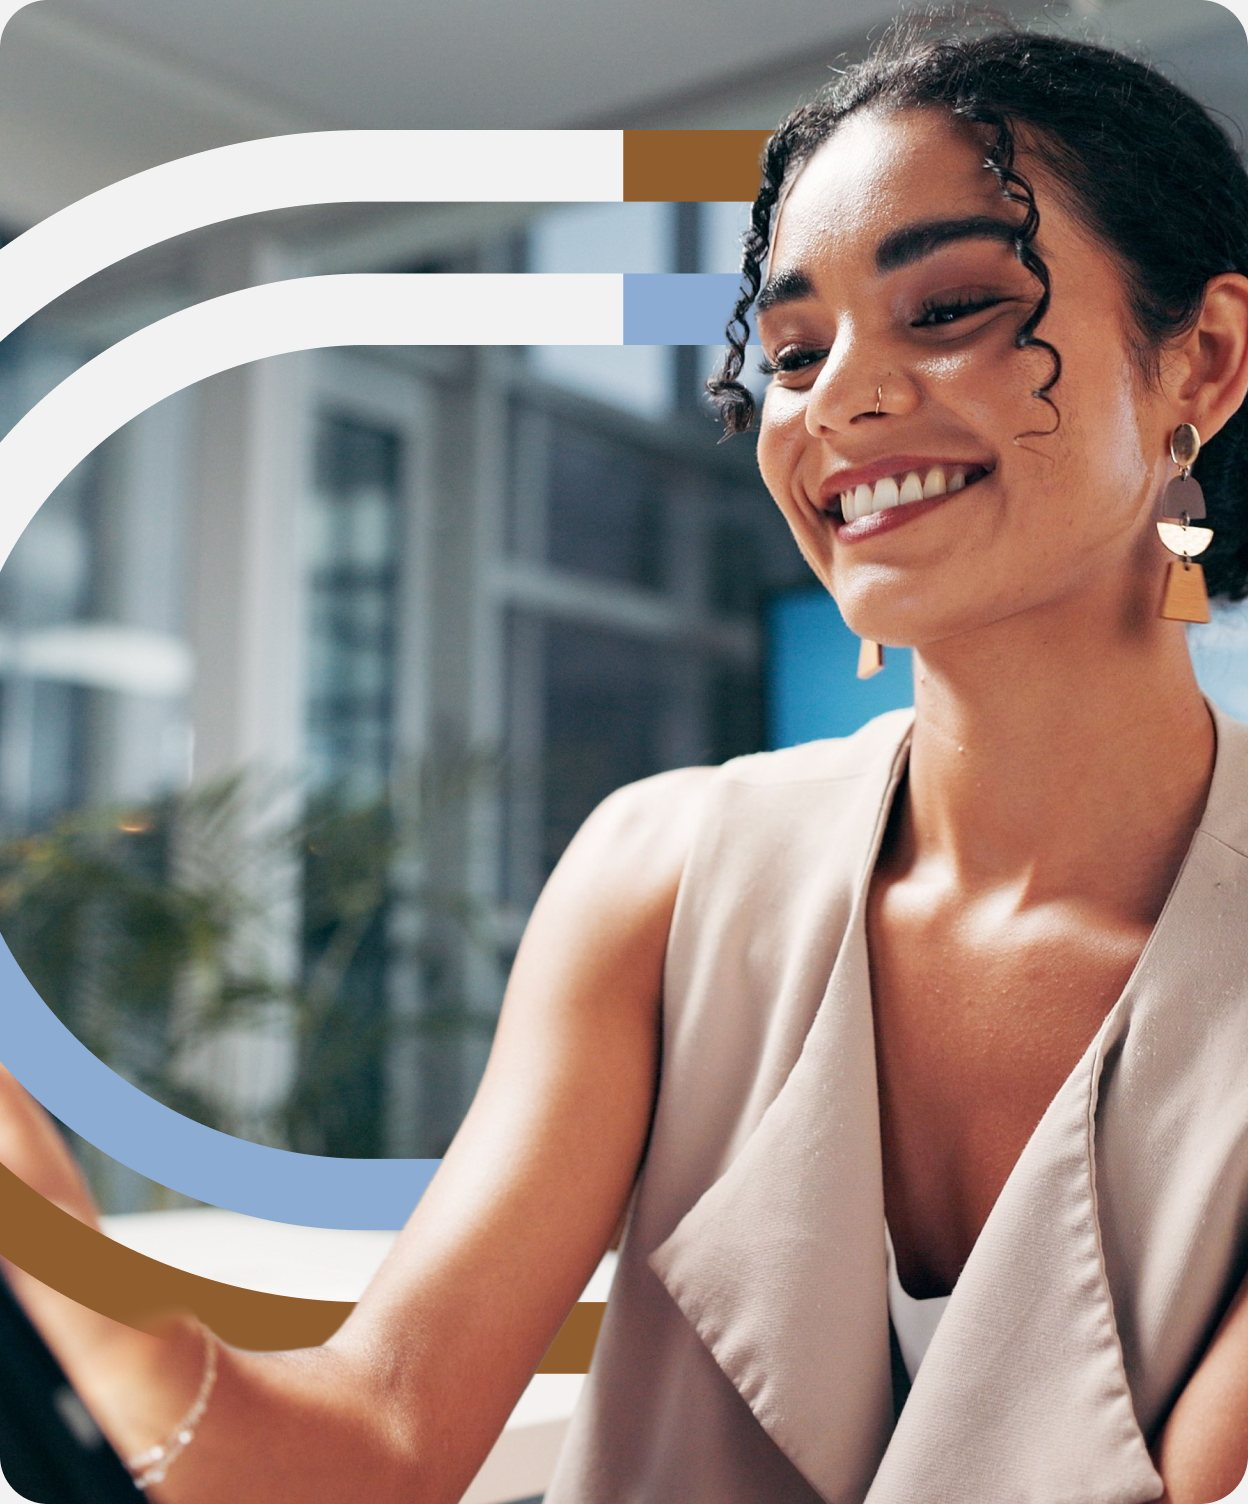
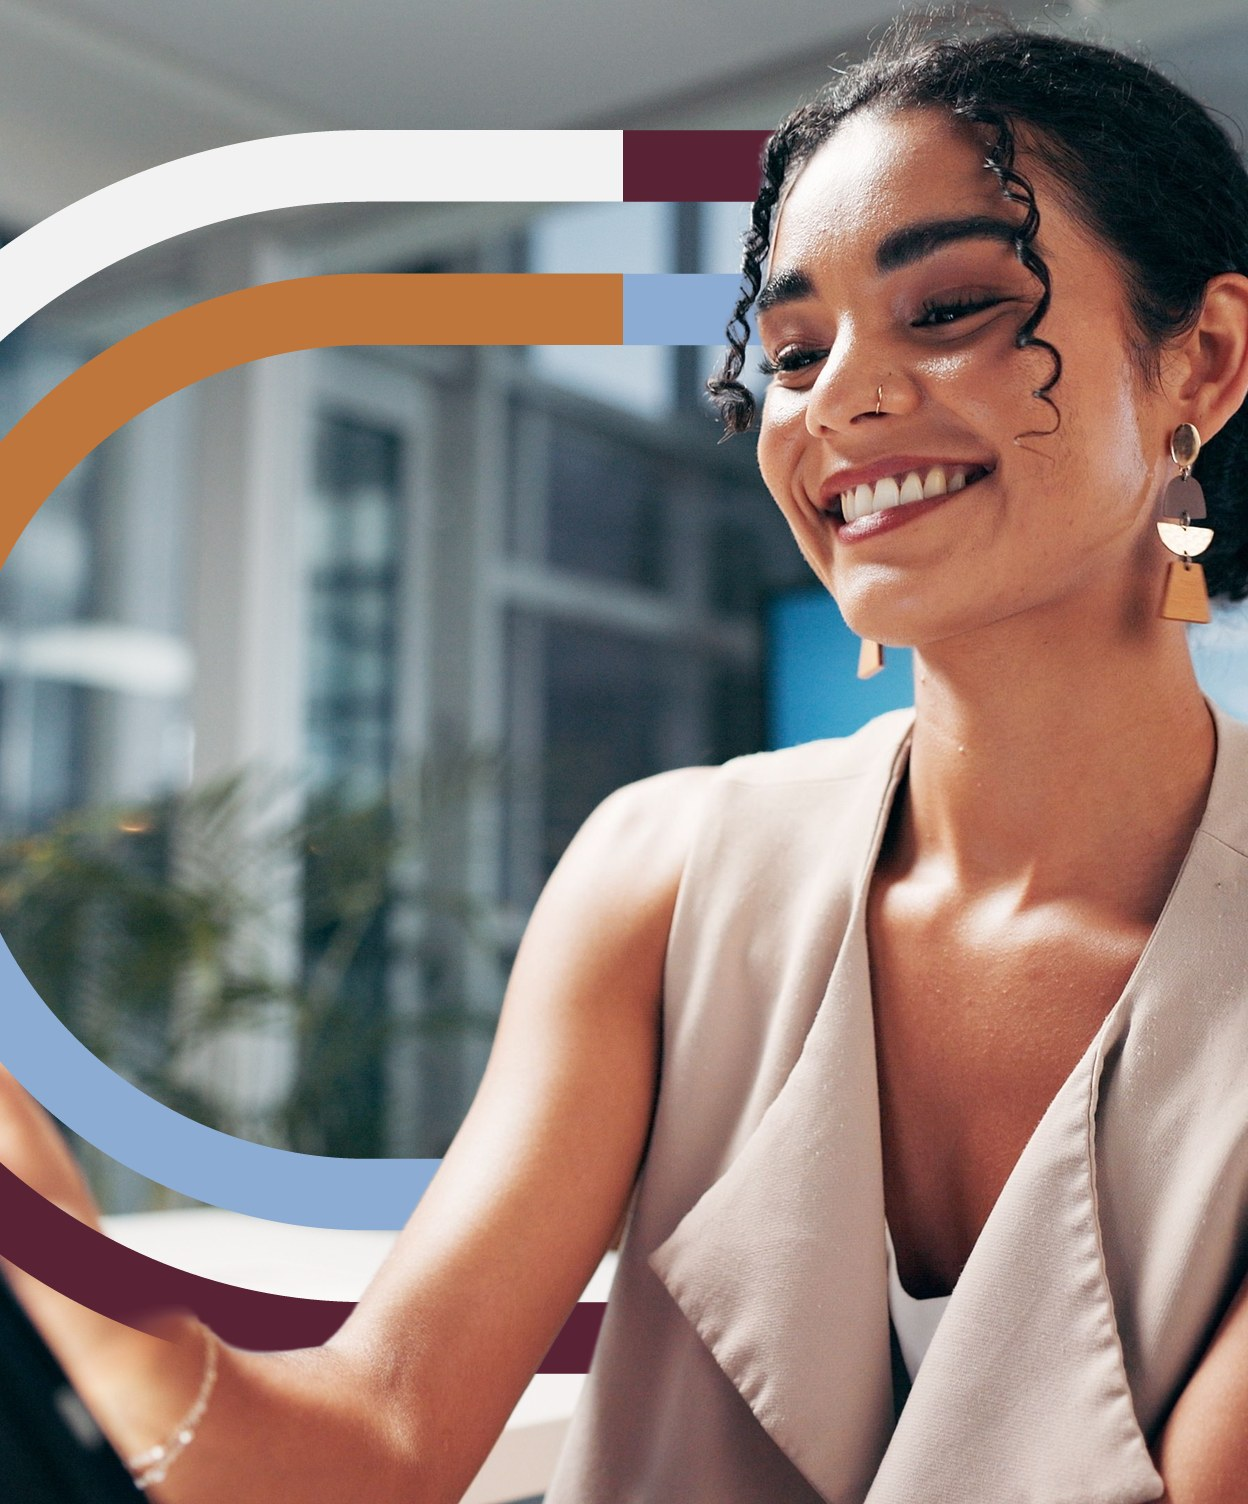
Single colour version: bake the burgundy (V2) palette into the site, drop V3 and the palette build; root and /v2/ serve the same site

diff --git a/index.html b/index.html
@@ -38,8 +38,8 @@
     <div class="intro__arcs intro__arcs--right"><i></i><i></i></div>
     <div class="intro__stage intro__stage--tagline">
       <p class="intro__tagline">
-        <span class="intro__line"><span>The eligibility and decision layer</span></span>
-        <span class="intro__line"><span>for mandate-bound capital.</span></span>
+        <span class="intro__line"><span>Your investment</span></span>
+        <span class="intro__line"><span>decision layer.</span></span>
       </p>
     </div>
 
@@ -54,7 +54,7 @@
             <g class="intro__sigin">
               <g class="intro__sig">
                 <path class="intro__p1" d="M131.241 94.0513C97.537 94.0513 70.2149 66.5685 70.2149 32.6667V1.49369e-05H79.3337V5.7436V32.6667C79.3337 61.5027 102.573 84.8789 131.241 84.8789V94.0513Z" fill="#F2F2F2"/>
-                <path class="intro__p2" d="M0.0878553 112C43.8539 112 79.3333 76.5207 79.3333 32.7546V32.6667V22.9744V6.47147e-05H70.1964V22.9744V32.6667C70.1964 71.4351 38.7684 102.863 0 102.863V112H0.0878553Z" fill="#905D2F"/>
+                <path class="intro__p2" d="M0.0878553 112C43.8539 112 79.3333 76.5207 79.3333 32.7546V32.6667V22.9744V6.47147e-05H70.1964V22.9744V32.6667C70.1964 71.4351 38.7684 102.863 0 102.863V112H0.0878553Z" fill="#5a2235"/>
                 <path class="intro__arc intro__p3" d="M0 94.0513C33.7035 94.0513 61.0256 66.5685 61.0256 32.6667V6.47147e-05H51.9069V5.74365V32.6667C51.9069 61.5027 28.6674 84.8789 0 84.8789V94.0513Z" fill="#8CACD3"/>
                 <path class="intro__p4" d="M131.153 112C87.3866 112 51.9072 76.5206 51.9072 32.7545V32.6667V22.9744V1.49369e-05H61.0442V22.9744V32.6667C61.0442 71.4351 92.4722 102.863 131.241 102.863V112H131.153Z" fill="#F2F2F2"/>
               </g>

diff --git a/js/components/intro.js b/js/components/intro.js
@@ -20,26 +20,26 @@ const TL = {
   tagOut: 1650,      // fully visible ~0.8 s, then rises out
   tagOutDur: 550,
   tagOutStagger: 60,
-  logoIn: 1750,      // 02 mark rises; PATOMY letters follow one by one
-  markInDur: 750,
-  letterIn: 1830,
-  letterStagger: 45,
-  letterInDur: 650,
-  away: 2850,        // letters rise out
-  awayStagger: 25,
-  awayDur: 500,
-  arcColor: 3000,    // 03 letters rise out; the signet grows in place, one arc turns brown
-  arcColorDur: 500,
-  grow: 2850,
-  growDur: 850,
+  logoIn: 1700,      // 02 mark rises; PATOMY letters follow one by one
+  markInDur: 650,
+  letterIn: 1740,
+  letterStagger: 35,
+  letterInDur: 600,
+  away: 2450,        // letters rise out
+  awayStagger: 20,
+  awayDur: 450,
+  arcColor: 2550,    // 03 letters rise out; the signet grows in place, one arc turns brown
+  arcColorDur: 450,
+  grow: 2450,
+  growDur: 800,
 };
-const TOTAL = 3700;  // finale starts here
+const TOTAL = 3250;  // finale starts here
 
 // Finale: 05 blue screen + lines zoom to the sides, 06 colours settle, then the header reveal
-const ZOOM_DUR = 850;
-const COLOR_AT = 550;   // ms after the finale starts: blue -> page colour, left lines brown -> white
+const ZOOM_DUR = 800;
+const COLOR_AT = 450;   // ms after the finale starts: blue -> page colour, left lines brown -> white
 const COLOR_DUR = 500;
-const REVEAL_AT = 450;  // ms after the finale starts
+const REVEAL_AT = 400;  // ms after the finale starts
 const VIDEO_AT = 1100;  // ms after the reveal starts: the hero video starts once the header has settled
 
 // ---- Scene geometry (user units of the 550.2 x 112 SVG scene) ---------------------------------------

diff --git a/css/tokens.css b/css/tokens.css
@@ -8,7 +8,7 @@
   --color-medium-blue: #678bc2;
   --color-intense-blue: #3589de;
   --color-dark-blue: #181e2b;
-  --color-medium-brown: #905d2f;
+  --color-medium-brown: #5a2235;
   --color-border-action: #141414;
 
   --color-bg: var(--color-beige);
@@ -73,4 +73,10 @@
   --arc-opacity: 0.06;
   --color-pill-bg: var(--color-beige);
   --color-pill-fg: var(--color-dark-blue);
+}
+/* Palette 2 intro: the sign's second arc stays sky blue, and the left line pair is sky blue + burgundy
+   (burgundy comes from the colour swap in v2.txt). Appended to css/tokens.css of the /v2/ build. */
+:root {
+  --intro-sign-arc-end: #8cacd3;
+  --intro-left-inner: #a9d3fd;
 }

diff --git a/README.md b/README.md
@@ -36,14 +36,7 @@ assets/
 - Use tokens from `tokens.css` instead of hard-coded values.
 - No build tools or dependencies.
 
-## Colour versions
+## Build
 
-`scripts/build.sh` builds `_site/`: the default palette at the root, plus one copy of the site per
-`palettes/<name>.txt` at `/<name>/` (e.g. `/v2/`). A palette file is a list of `from to` hex pairs that are
-swapped across the HTML, CSS, JS and SVG files of that copy. An optional `palettes/<name>.css` is appended to
-`css/tokens.css`, and an optional `palettes/<name>/` folder is copied over the copy to replace individual files
-(e.g. `palettes/v2/assets/images/features/mandate.jpg`). To add a version, add a palette file; the
-GitHub Pages workflow runs the script on every push to `main`.
-
-An optional `palettes/<name>.pl` holds perl `s///` edits applied to that copy's `index.html` and intro script
-(`/v2/` uses it for the intro tagline and a faster intro timeline).
+`scripts/build.sh` assembles `_site/` for GitHub Pages: the site at the root, plus a copy under `/v2/` so older
+links keep working. The GitHub Pages workflow runs it on every push to `main`.
